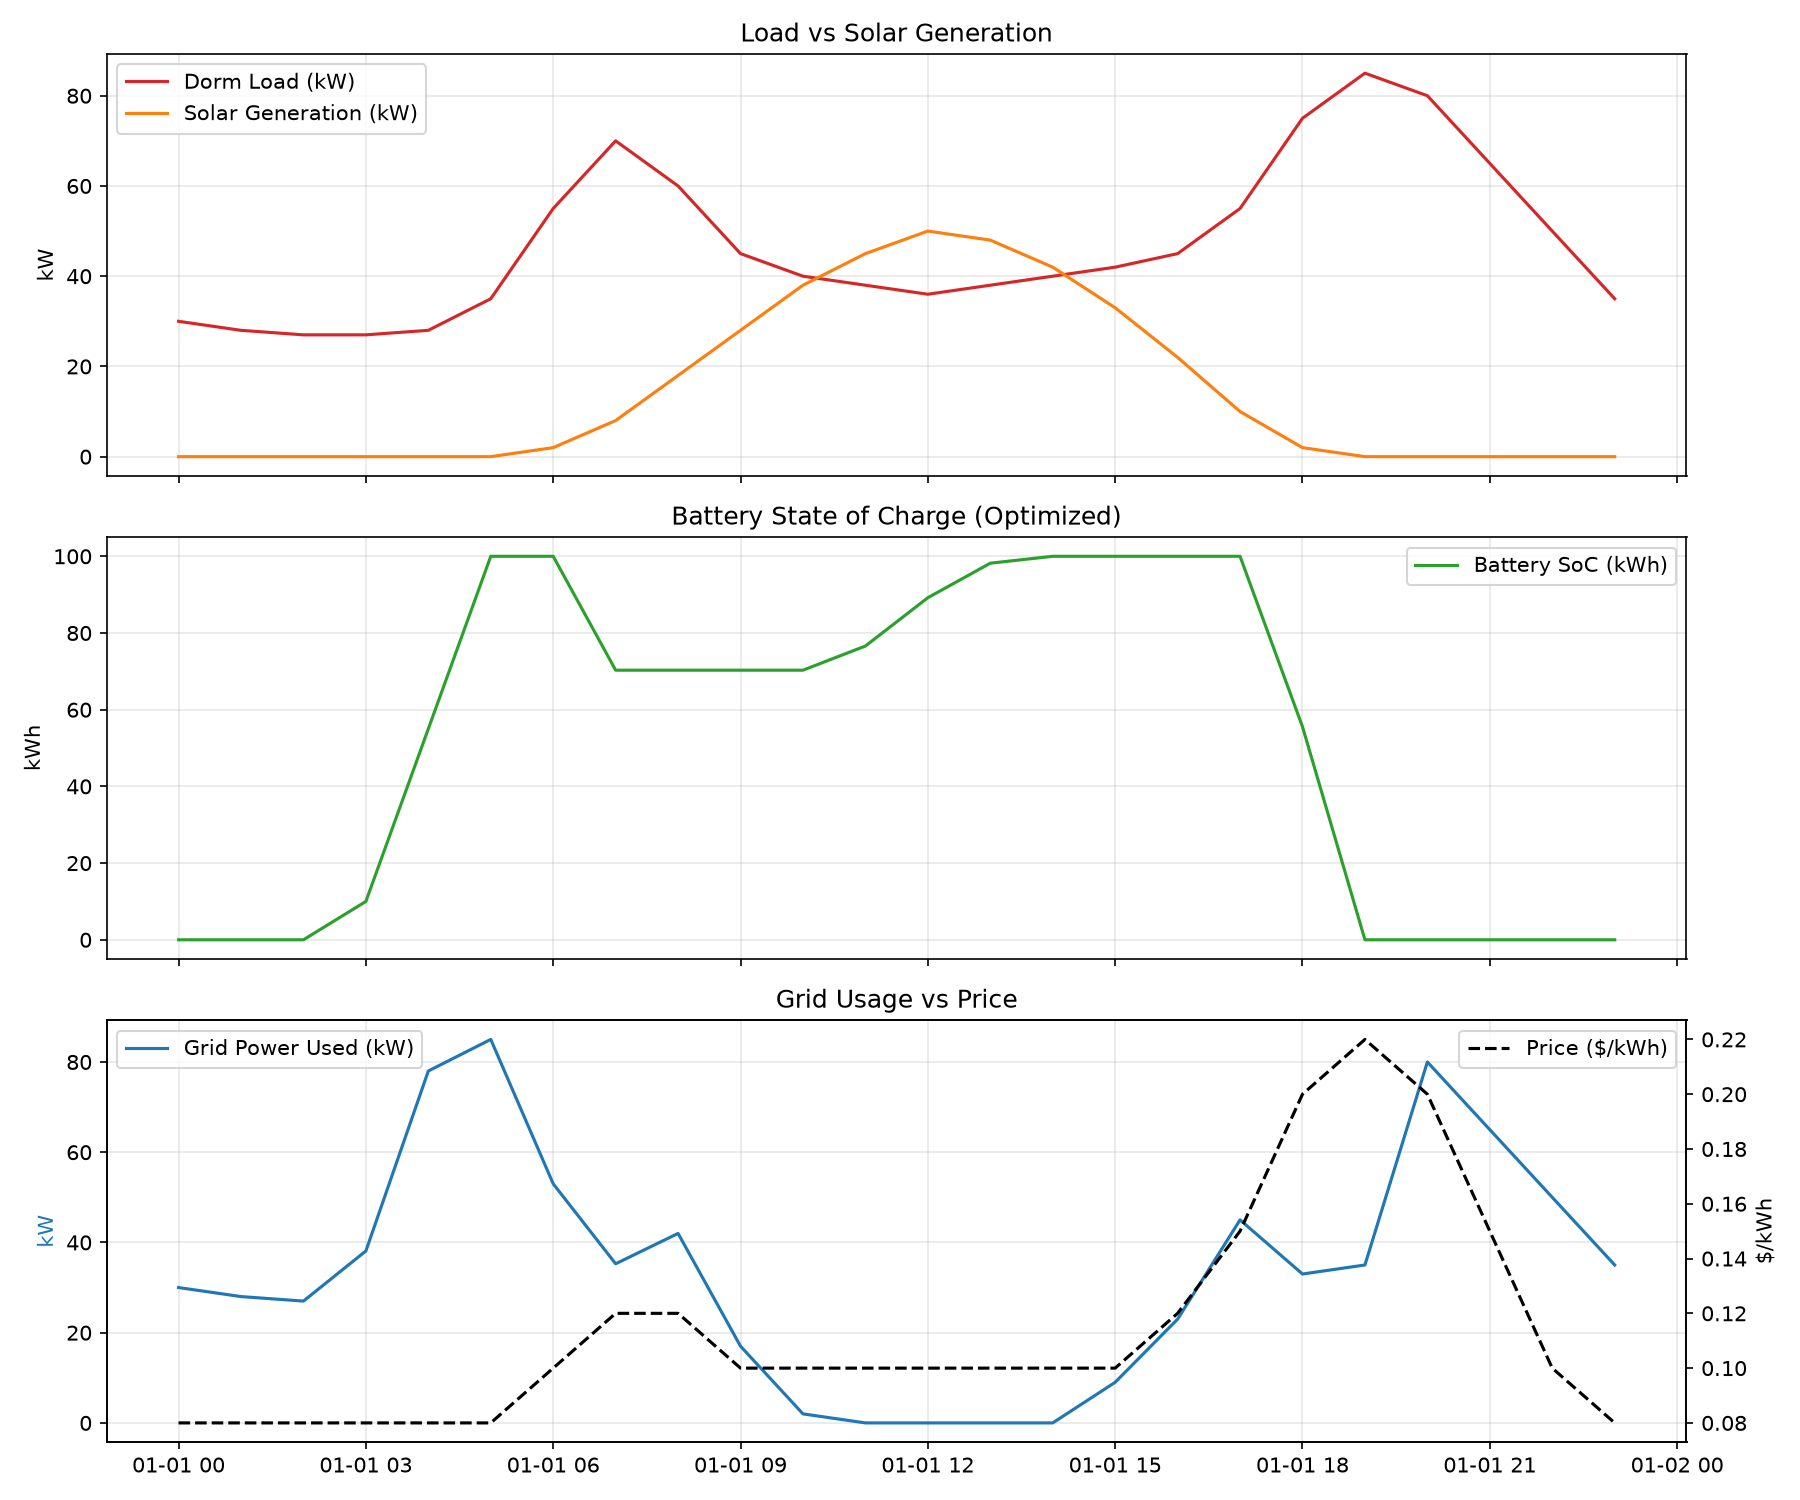
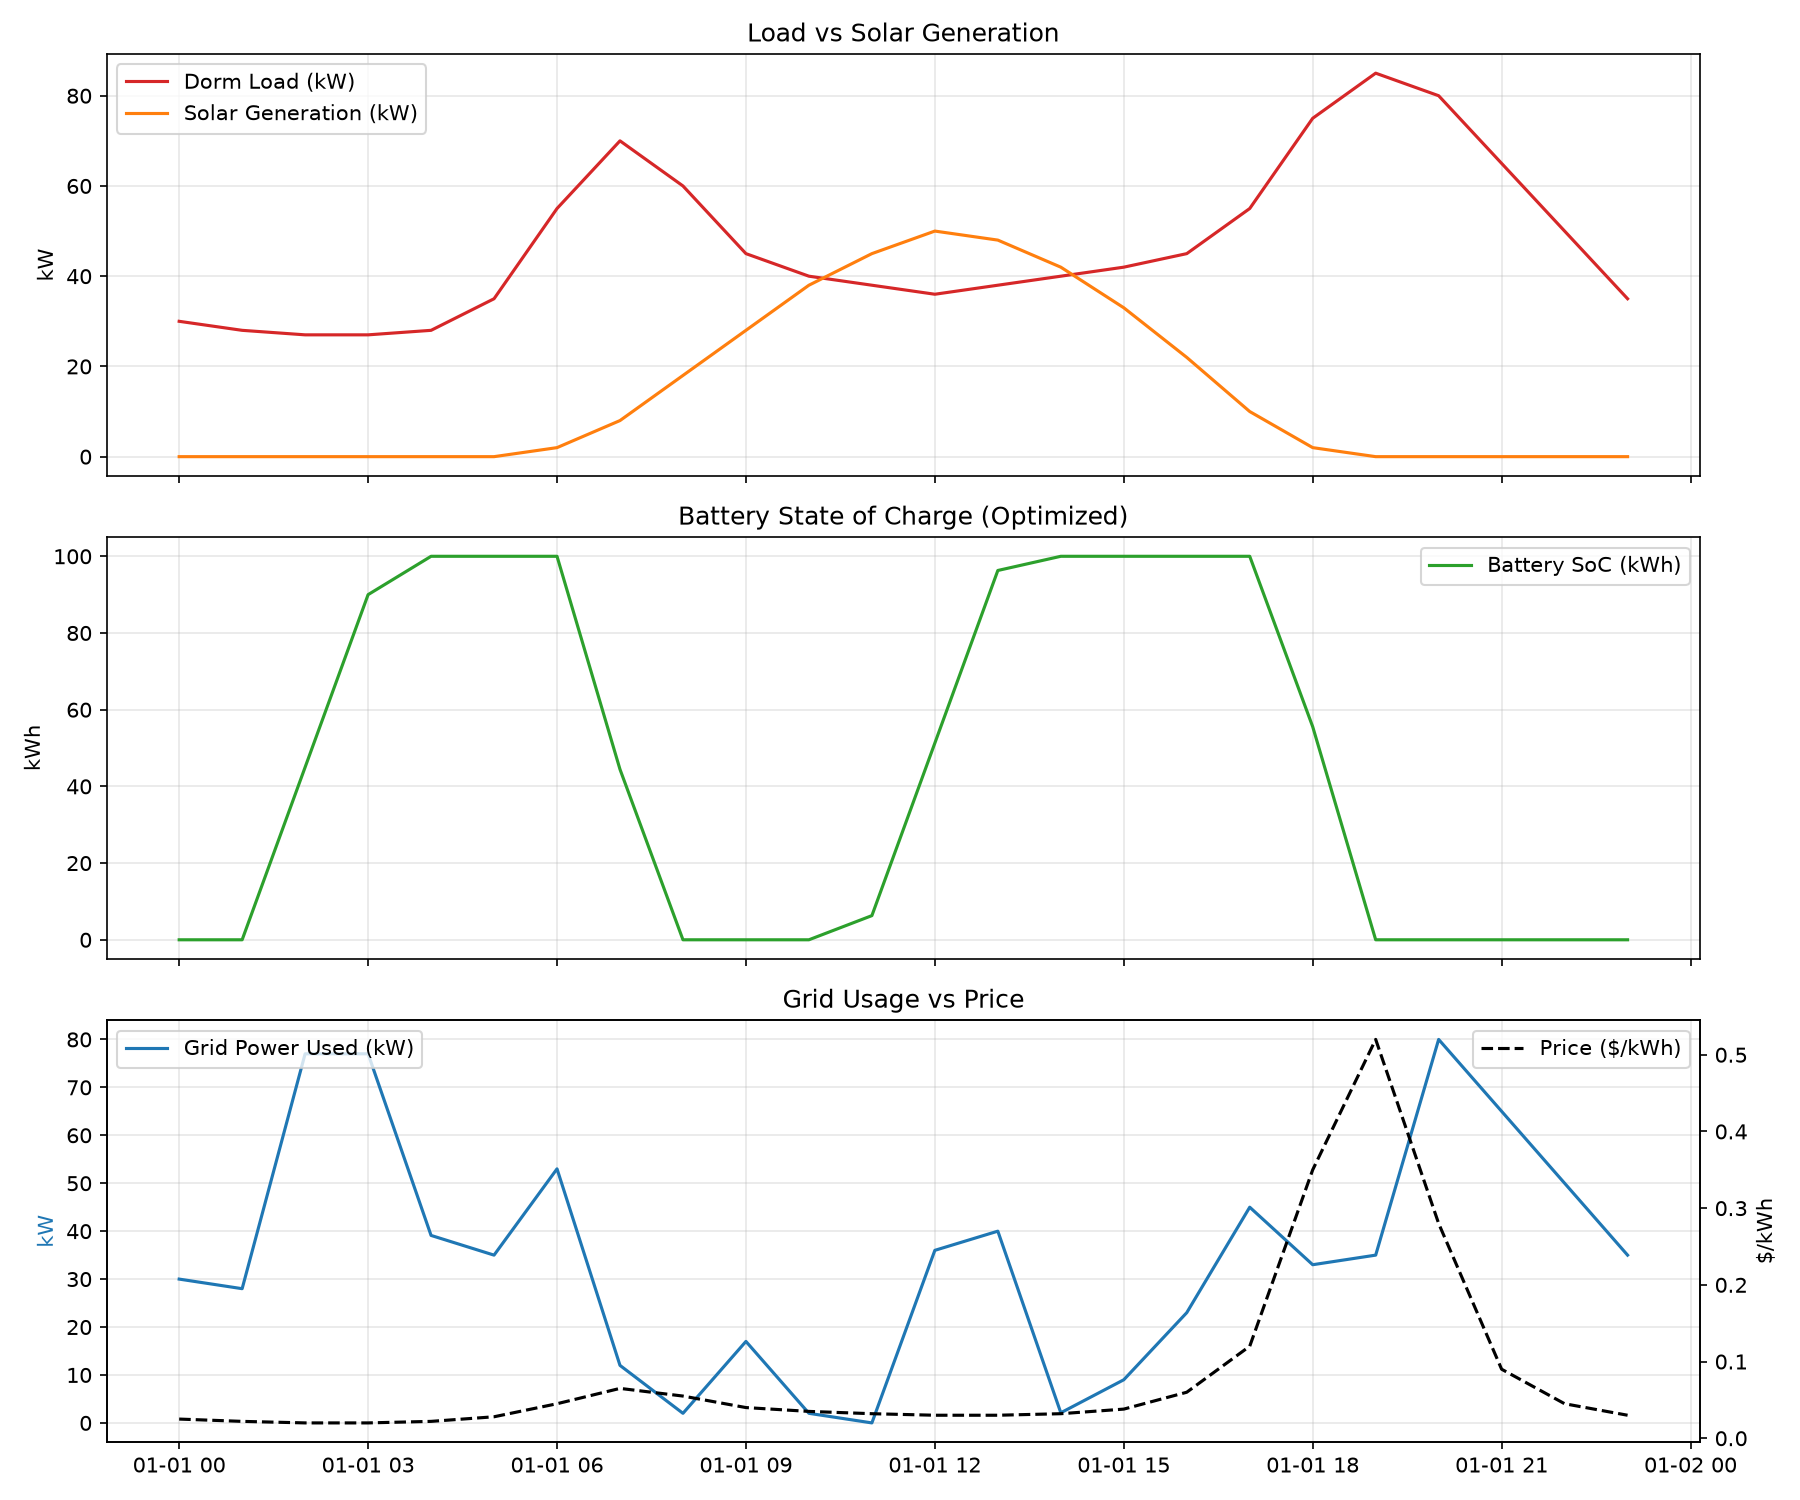
Add Alberta-inspired volatile pricing scenario, update results

diff --git a/dorm_intro.py b/dorm_intro.py
@@ -19,12 +19,13 @@ solar_kw = [
     2, 0, 0, 0, 0, 0          # 6pm - 11pm (dark again)
 ]
 
-# Electricity price ($/kWh): cheaper at night, expensive during evening peak demand
+# Alberta-market-inspired synthetic price ($/kWh)
+# Modeled after real AESO pool price volatility patterns - NOT actual AESO data
 price = [
-    0.08, 0.08, 0.08, 0.08, 0.08, 0.08,   # 12am - 5am (off-peak)
-    0.10, 0.12, 0.12, 0.10, 0.10, 0.10,   # 6am - 11am (mid)
-    0.10, 0.10, 0.10, 0.10, 0.12, 0.15,   # 12pm - 5pm (mid, rising)
-    0.20, 0.22, 0.20, 0.15, 0.10, 0.08    # 6pm - 11pm (peak, then falling)
+    0.025, 0.022, 0.020, 0.020, 0.022, 0.028,   # 12am-5am: low overnight, ~$20-28/MWh
+    0.045, 0.065, 0.055, 0.040, 0.035, 0.032,   # 6am-11am: morning ramp
+    0.030, 0.030, 0.032, 0.038, 0.060, 0.120,   # 12pm-5pm: mild, rising into evening
+    0.350, 0.520, 0.280, 0.090, 0.045, 0.030    # 6pm-11pm: severe evening peak spike
 ]
 
 # Combine all three into one table